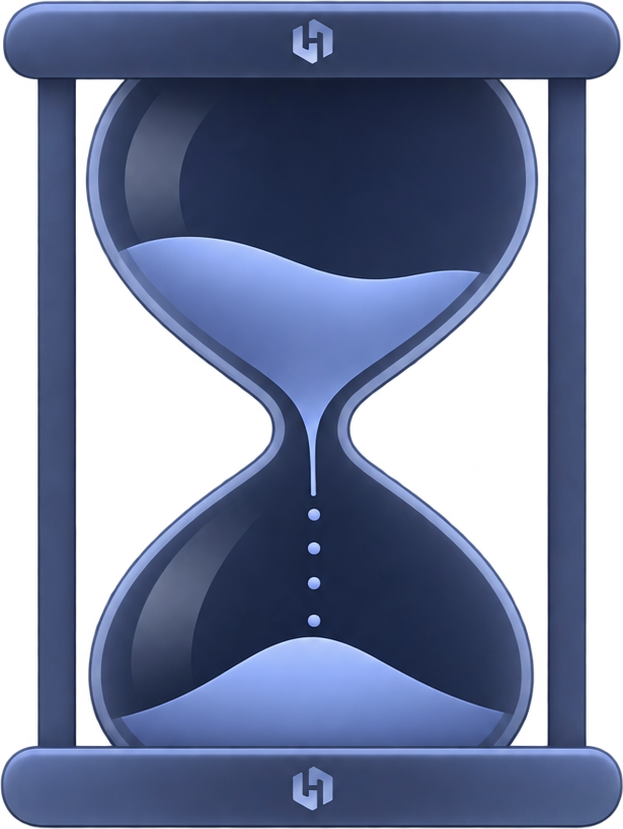
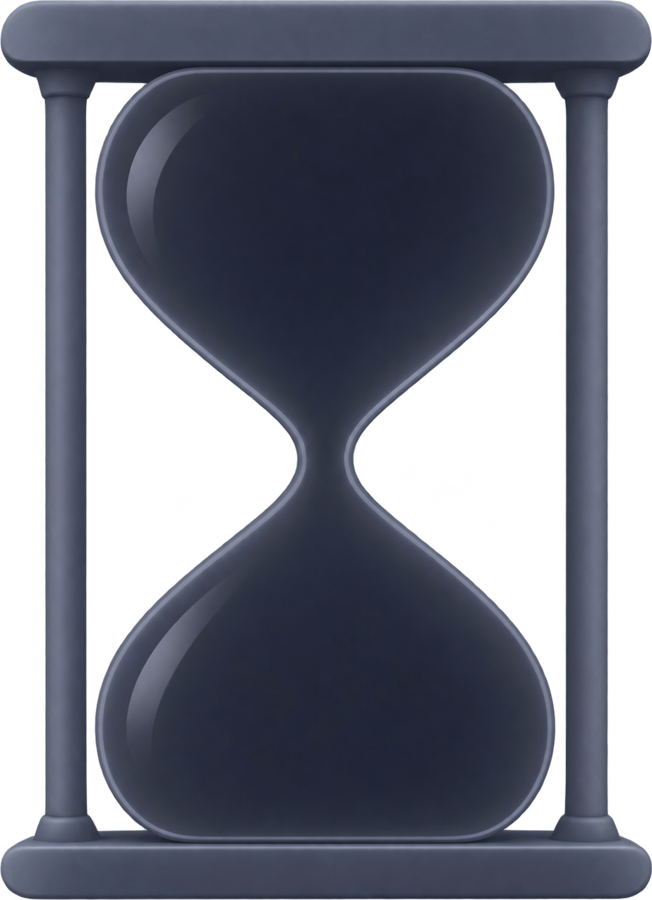
Home: try the slate hourglass as a still picture

diff --git a/theme/hourglassArt.ts b/theme/hourglassArt.ts
@@ -50,5 +50,5 @@ export const CRAFTED_HOURGLASS: ReadonlySet<string> = new Set(['Growing']);
  * before it is drawn live (a test: the sand does not move).
  */
 export const HOME_PREVIEW_ART: Record<string, { image: ImageSourcePropType; ratio: number }> = {
-    Growing: { image: require('@/assets/images/hourglasses/home-preview.png'), ratio: 623 / 829 },
+    Growing: { image: require('@/assets/images/hourglasses/home-preview.png'), ratio: 652 / 900 },
 };
